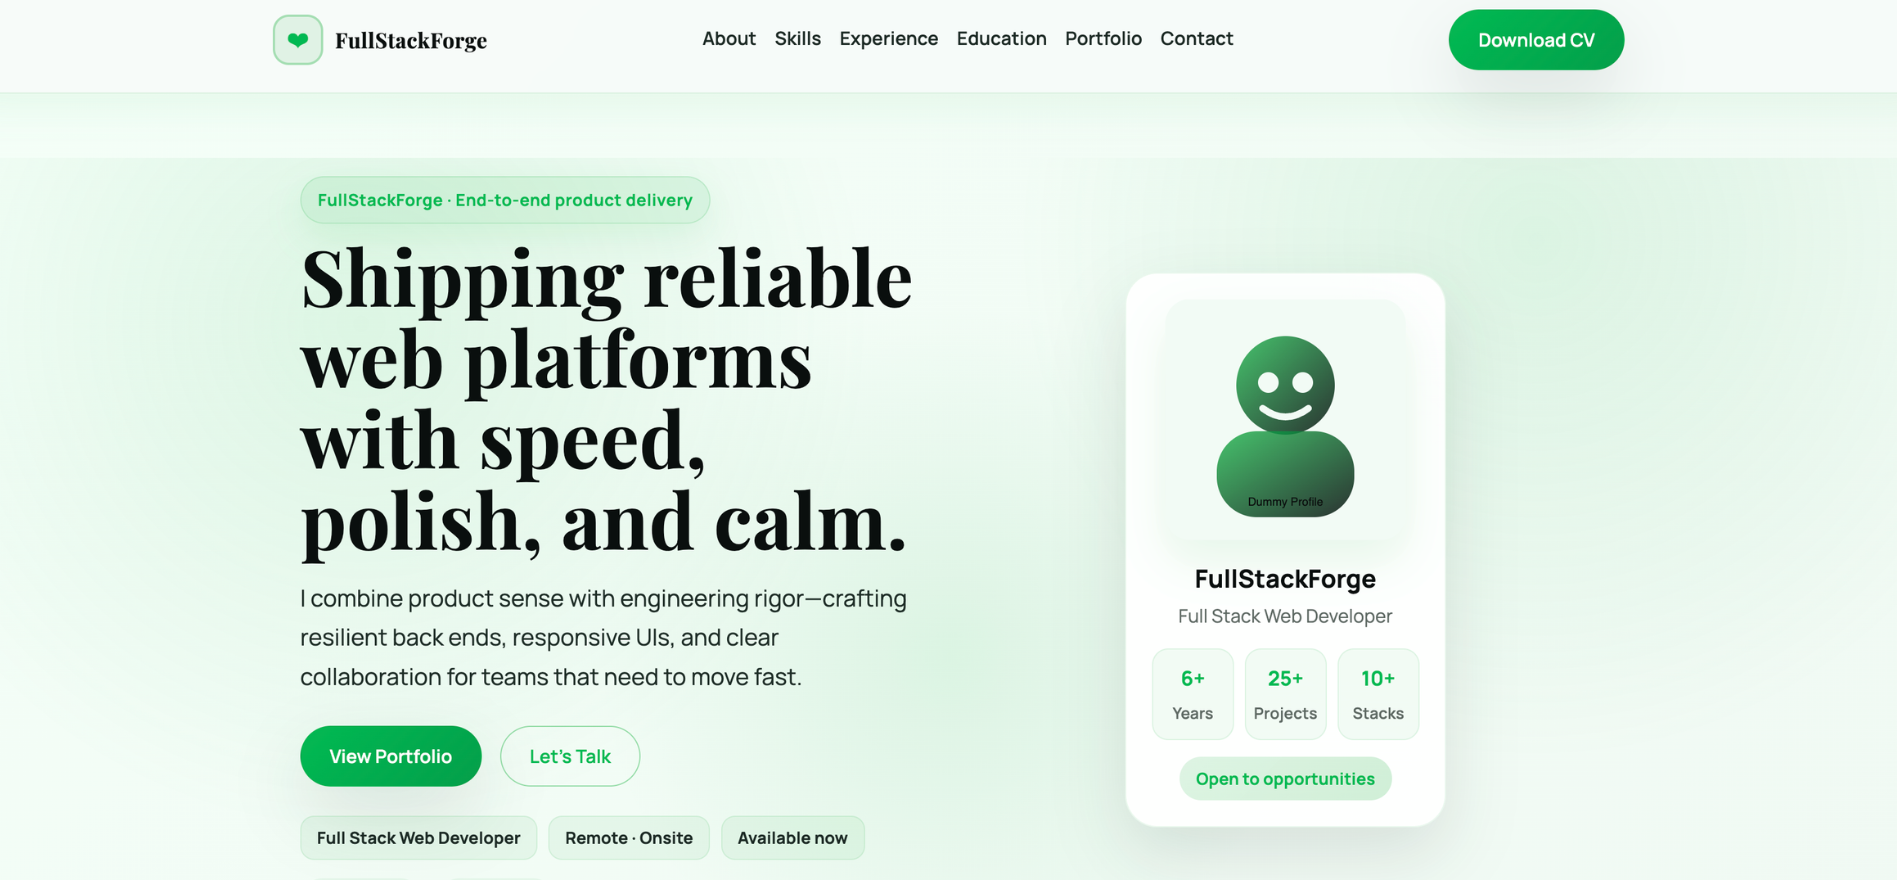
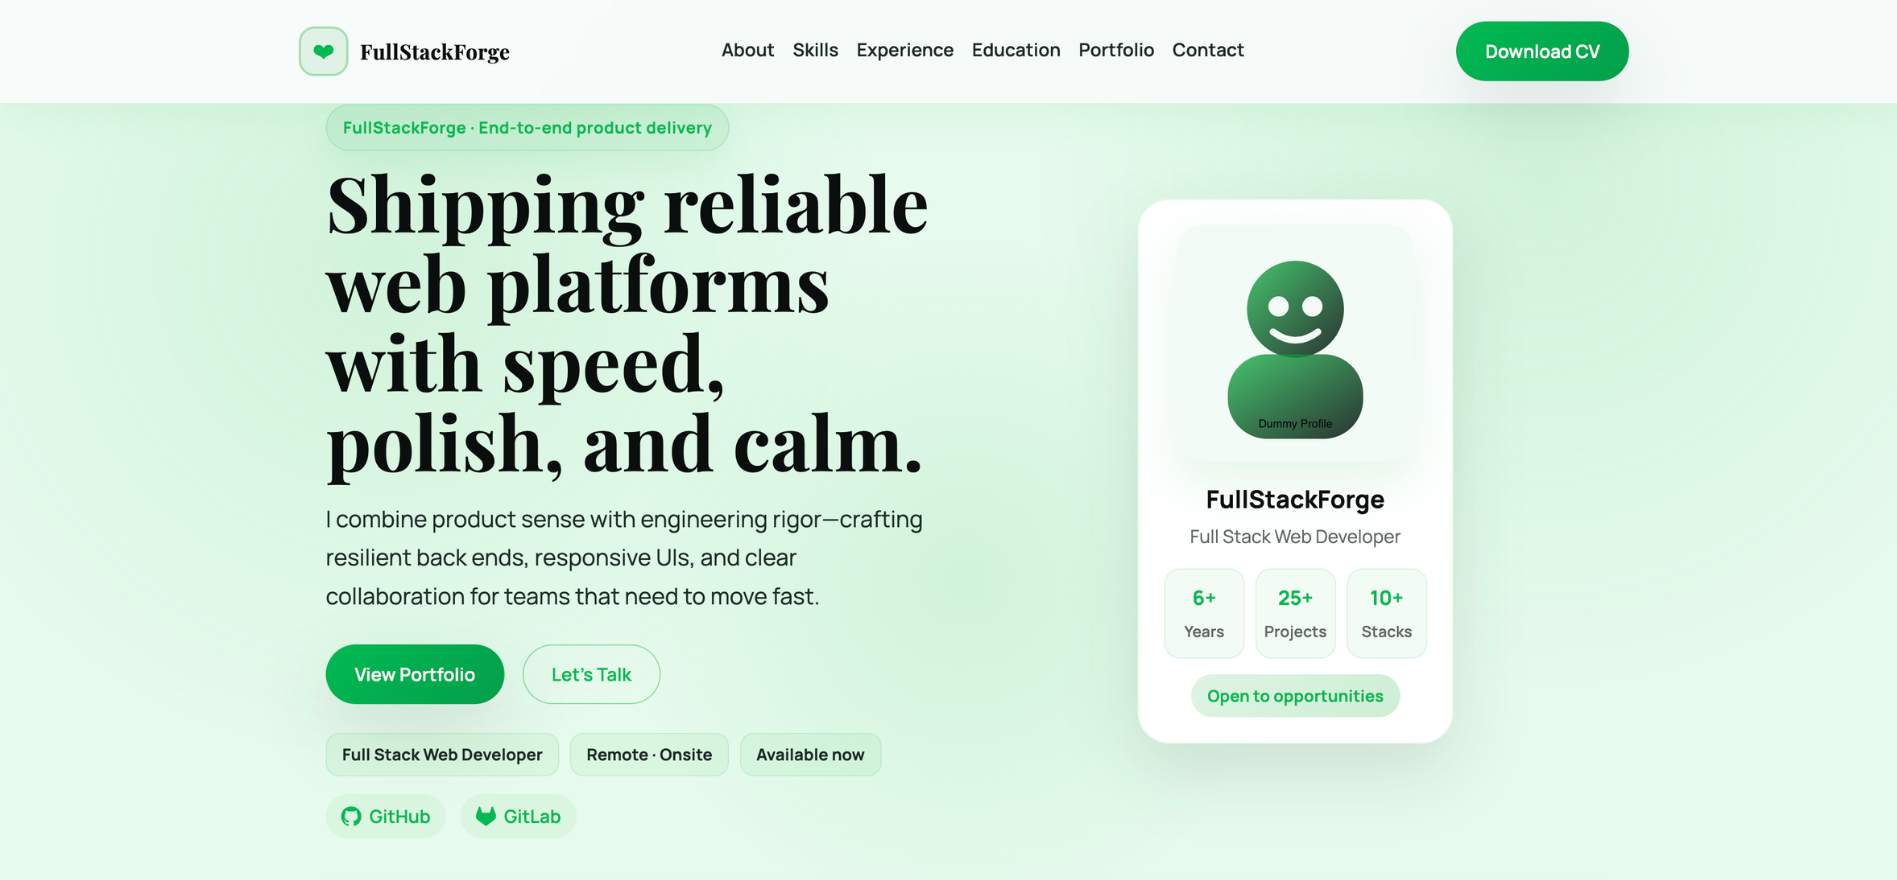
Add feature: fullstackforge new template and inserted inside the index.html

diff --git a/index.html b/index.html
@@ -627,7 +627,7 @@
                 <div class="p-6">
                   <h3 class="text-xl font-bold mb-2">Fullstackforge</h3>
                   <p class="text-gray-600 dark:text-gray-400 text-sm mb-4">
-                    Product-focused full-stack resume with personal details.
+                    Product-focused full-stack resume.
                   </p>
                   <div class="flex items-center justify-between">
                     <div class="flex space-x-2">

diff --git a/fullstackforge/style.css b/fullstackforge/style.css
@@ -166,13 +166,14 @@ a {
 }
 
 main {
-  padding: 3.5rem 0 4rem;
+  padding: 0 0 4rem;
 }
 
 .hero {
-  padding: 1rem 0 3.5rem;
+  padding: 0 0 3.2rem;
   position: relative;
   overflow: hidden;
+  background: #e6faed;
 }
 
 .hero::before {
@@ -415,8 +416,9 @@ main {
 
 .section {
   margin-top: 4.5rem;
-  scroll-margin-top: 110px;
+  scroll-margin-top: 100px;
 }
+
 
 .section.alt {
   background: rgba(1, 185, 83, 0.06);
